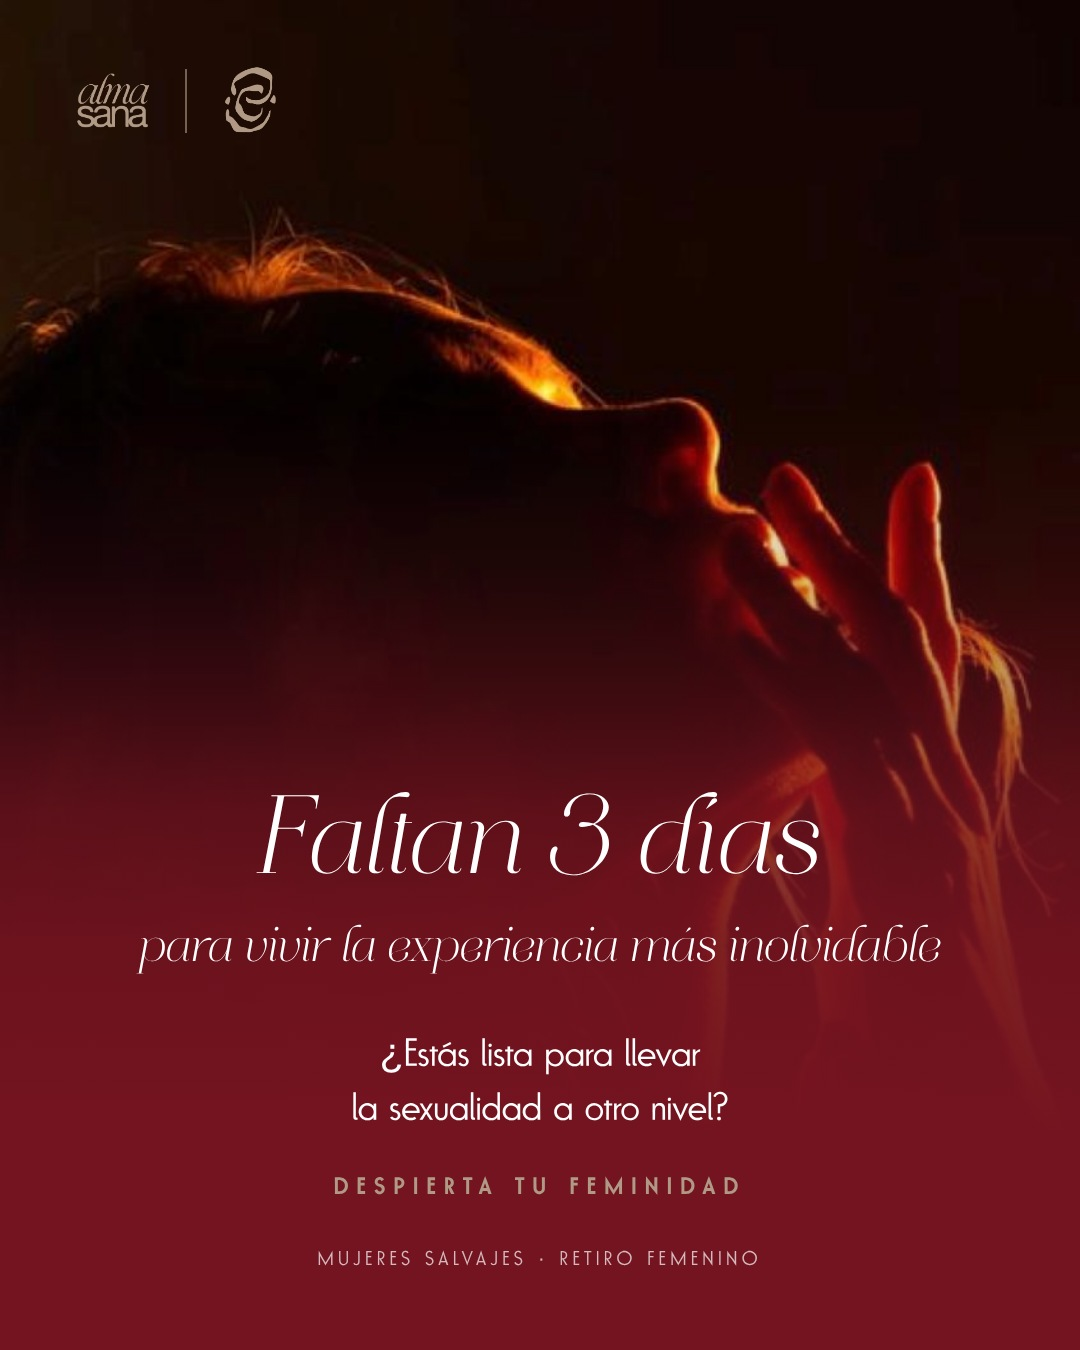
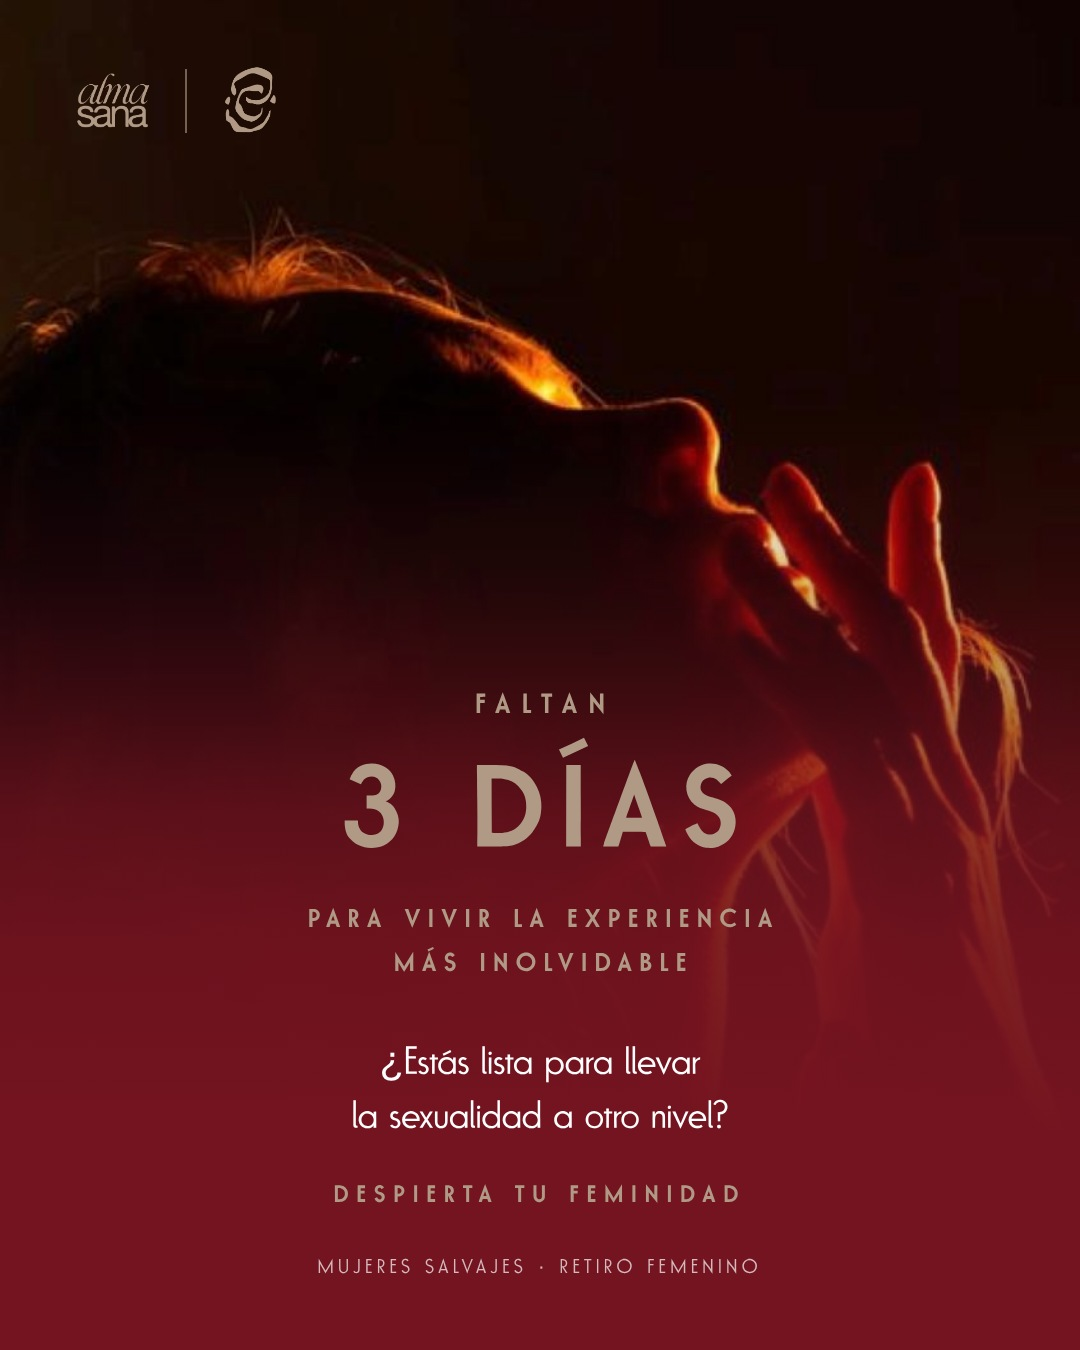
Set 3-day headline in beige caps body font
Claude-Session: https://claude.ai/code/session_014KKHDmVPJSKEnC1rY1uwgD

diff --git a/posts/faltan-3-dias.html b/posts/faltan-3-dias.html
@@ -9,11 +9,11 @@ body{width:1080px;height:1350px;overflow:hidden;position:relative;background:var
 .shade{position:absolute;inset:0;background:linear-gradient(180deg,rgba(116,20,32,0) 30%,rgba(116,20,32,.2) 42%,rgba(116,20,32,.5) 52%,rgba(116,20,32,.78) 60%,rgba(116,20,32,.93) 70%,#741420 84%)}
 .logos{position:absolute;top:64px;left:72px;display:flex;align-items:center;gap:30px}
 .logos .alma{height:62px}.logos .div{width:1.5px;height:64px;background:rgba(176,154,134,.6)}.logos .sym{height:74px}
-.txt{position:absolute;left:90px;right:90px;bottom:80px;text-align:center}
-.k{font-weight:700;font-size:22px;letter-spacing:.42em;text-transform:uppercase;color:var(--beige)}
-.n{font-family:"Aire";font-size:112px;line-height:1}
+.txt{position:absolute;left:90px;right:90px;bottom:72px;text-align:center}
+.k{font-weight:700;font-size:28px;letter-spacing:.42em;padding-left:.42em;text-transform:uppercase;color:var(--beige)}
+.n{font-weight:700;font-size:118px;line-height:1;letter-spacing:.14em;padding-left:.14em;text-transform:uppercase;color:var(--beige);margin-top:40px}
 .n small{font-size:84px}
-.p{font-family:"Aire";font-size:50px;line-height:1.2;margin-top:18px}
+.p{font-weight:700;font-size:26px;line-height:1.7;letter-spacing:.3em;padding-left:.3em;text-transform:uppercase;color:var(--beige);margin-top:22px}
 .t{font-weight:300;font-size:40px;line-height:1.35;margin-top:50px}
 .d{margin-top:40px;font-weight:700;font-size:24px;letter-spacing:.34em;text-transform:uppercase;color:var(--beige)}
 .s{margin-top:48px;font-weight:300;font-size:20px;letter-spacing:.24em;text-transform:uppercase;color:rgba(255,255,255,.7)}
@@ -21,8 +21,9 @@ body{width:1080px;height:1350px;overflow:hidden;position:relative;background:var
 <div class="photo"></div><div class="shade"></div>
 <div class="logos"><img class="alma" src="../brand/logos/logo-taupe.png"><span class="div"></span><img class="sym" src="../brand/logos/simbolo-taupe.png"></div>
 <div class="txt">
-  <div class="n">Faltan 3 días</div>
-  <div class="p">para vivir la experiencia más inolvidable</div>
+  <div class="k">Faltan</div>
+  <div class="n">3 días</div>
+  <div class="p">para vivir la experiencia<br>más inolvidable</div>
   <div class="t">¿Estás lista para llevar<br>la sexualidad a otro nivel?</div>
   <div class="d">Despierta tu feminidad</div>
   <div class="s">Mujeres salvajes · Retiro femenino</div>
